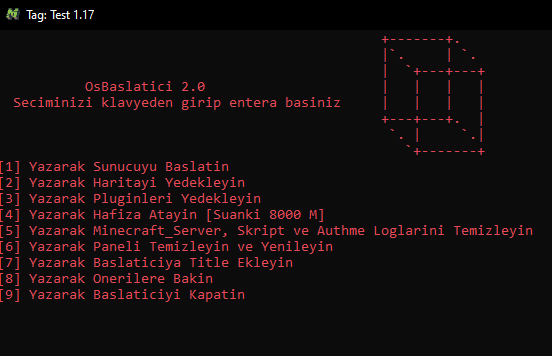
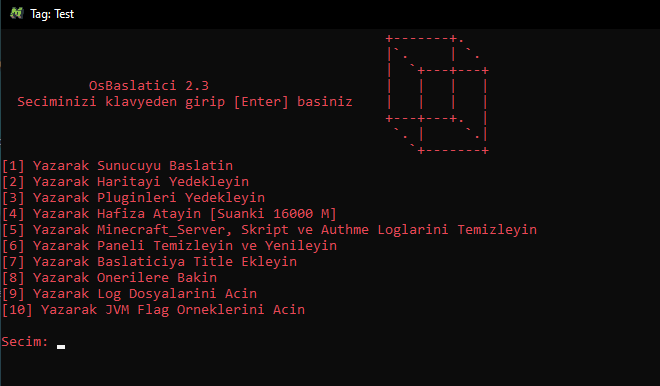
Preview Images Updated

diff --git a/README.md b/README.md
@@ -6,6 +6,12 @@
 
 ![PreviewSSFromTheConsole2](readmeAssets/preview2.png)
 
+
+
+
+![JVMFlagMenu](readmeAssets/preview3.png)
+
+
 ### ***Features:***
 - Clean and beautiful console
 - Dynamic colors depending on operations
